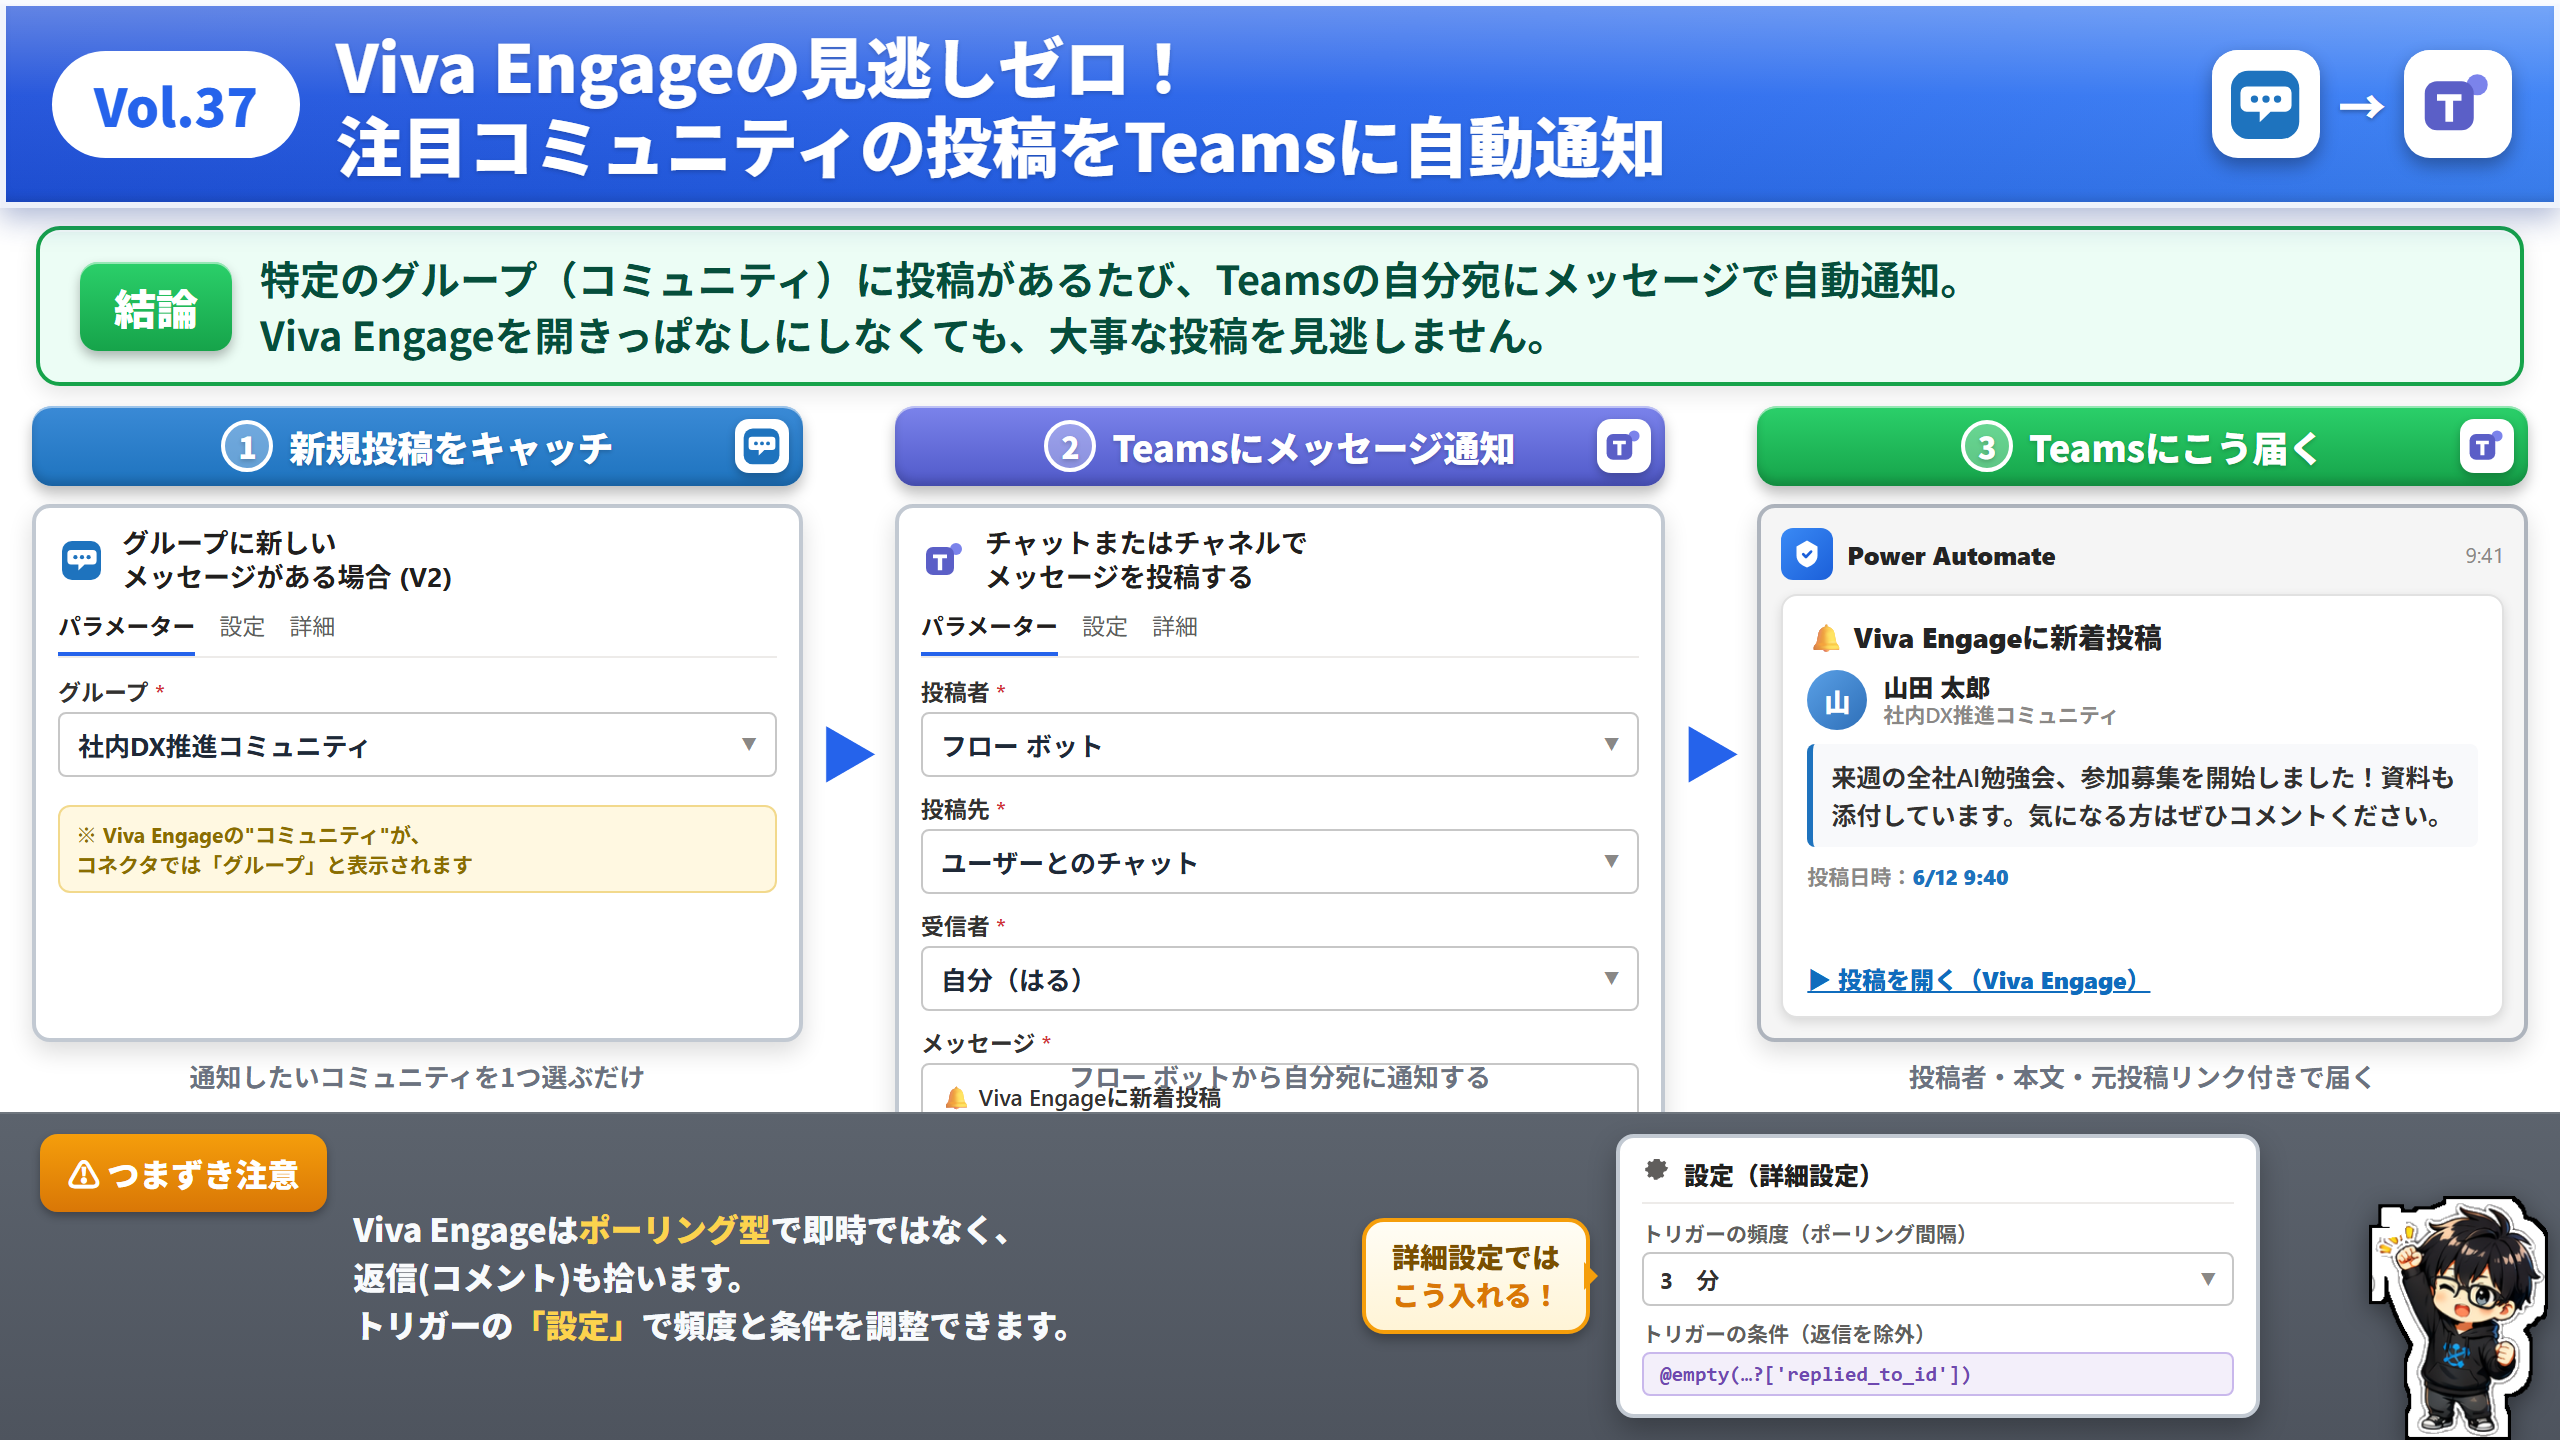
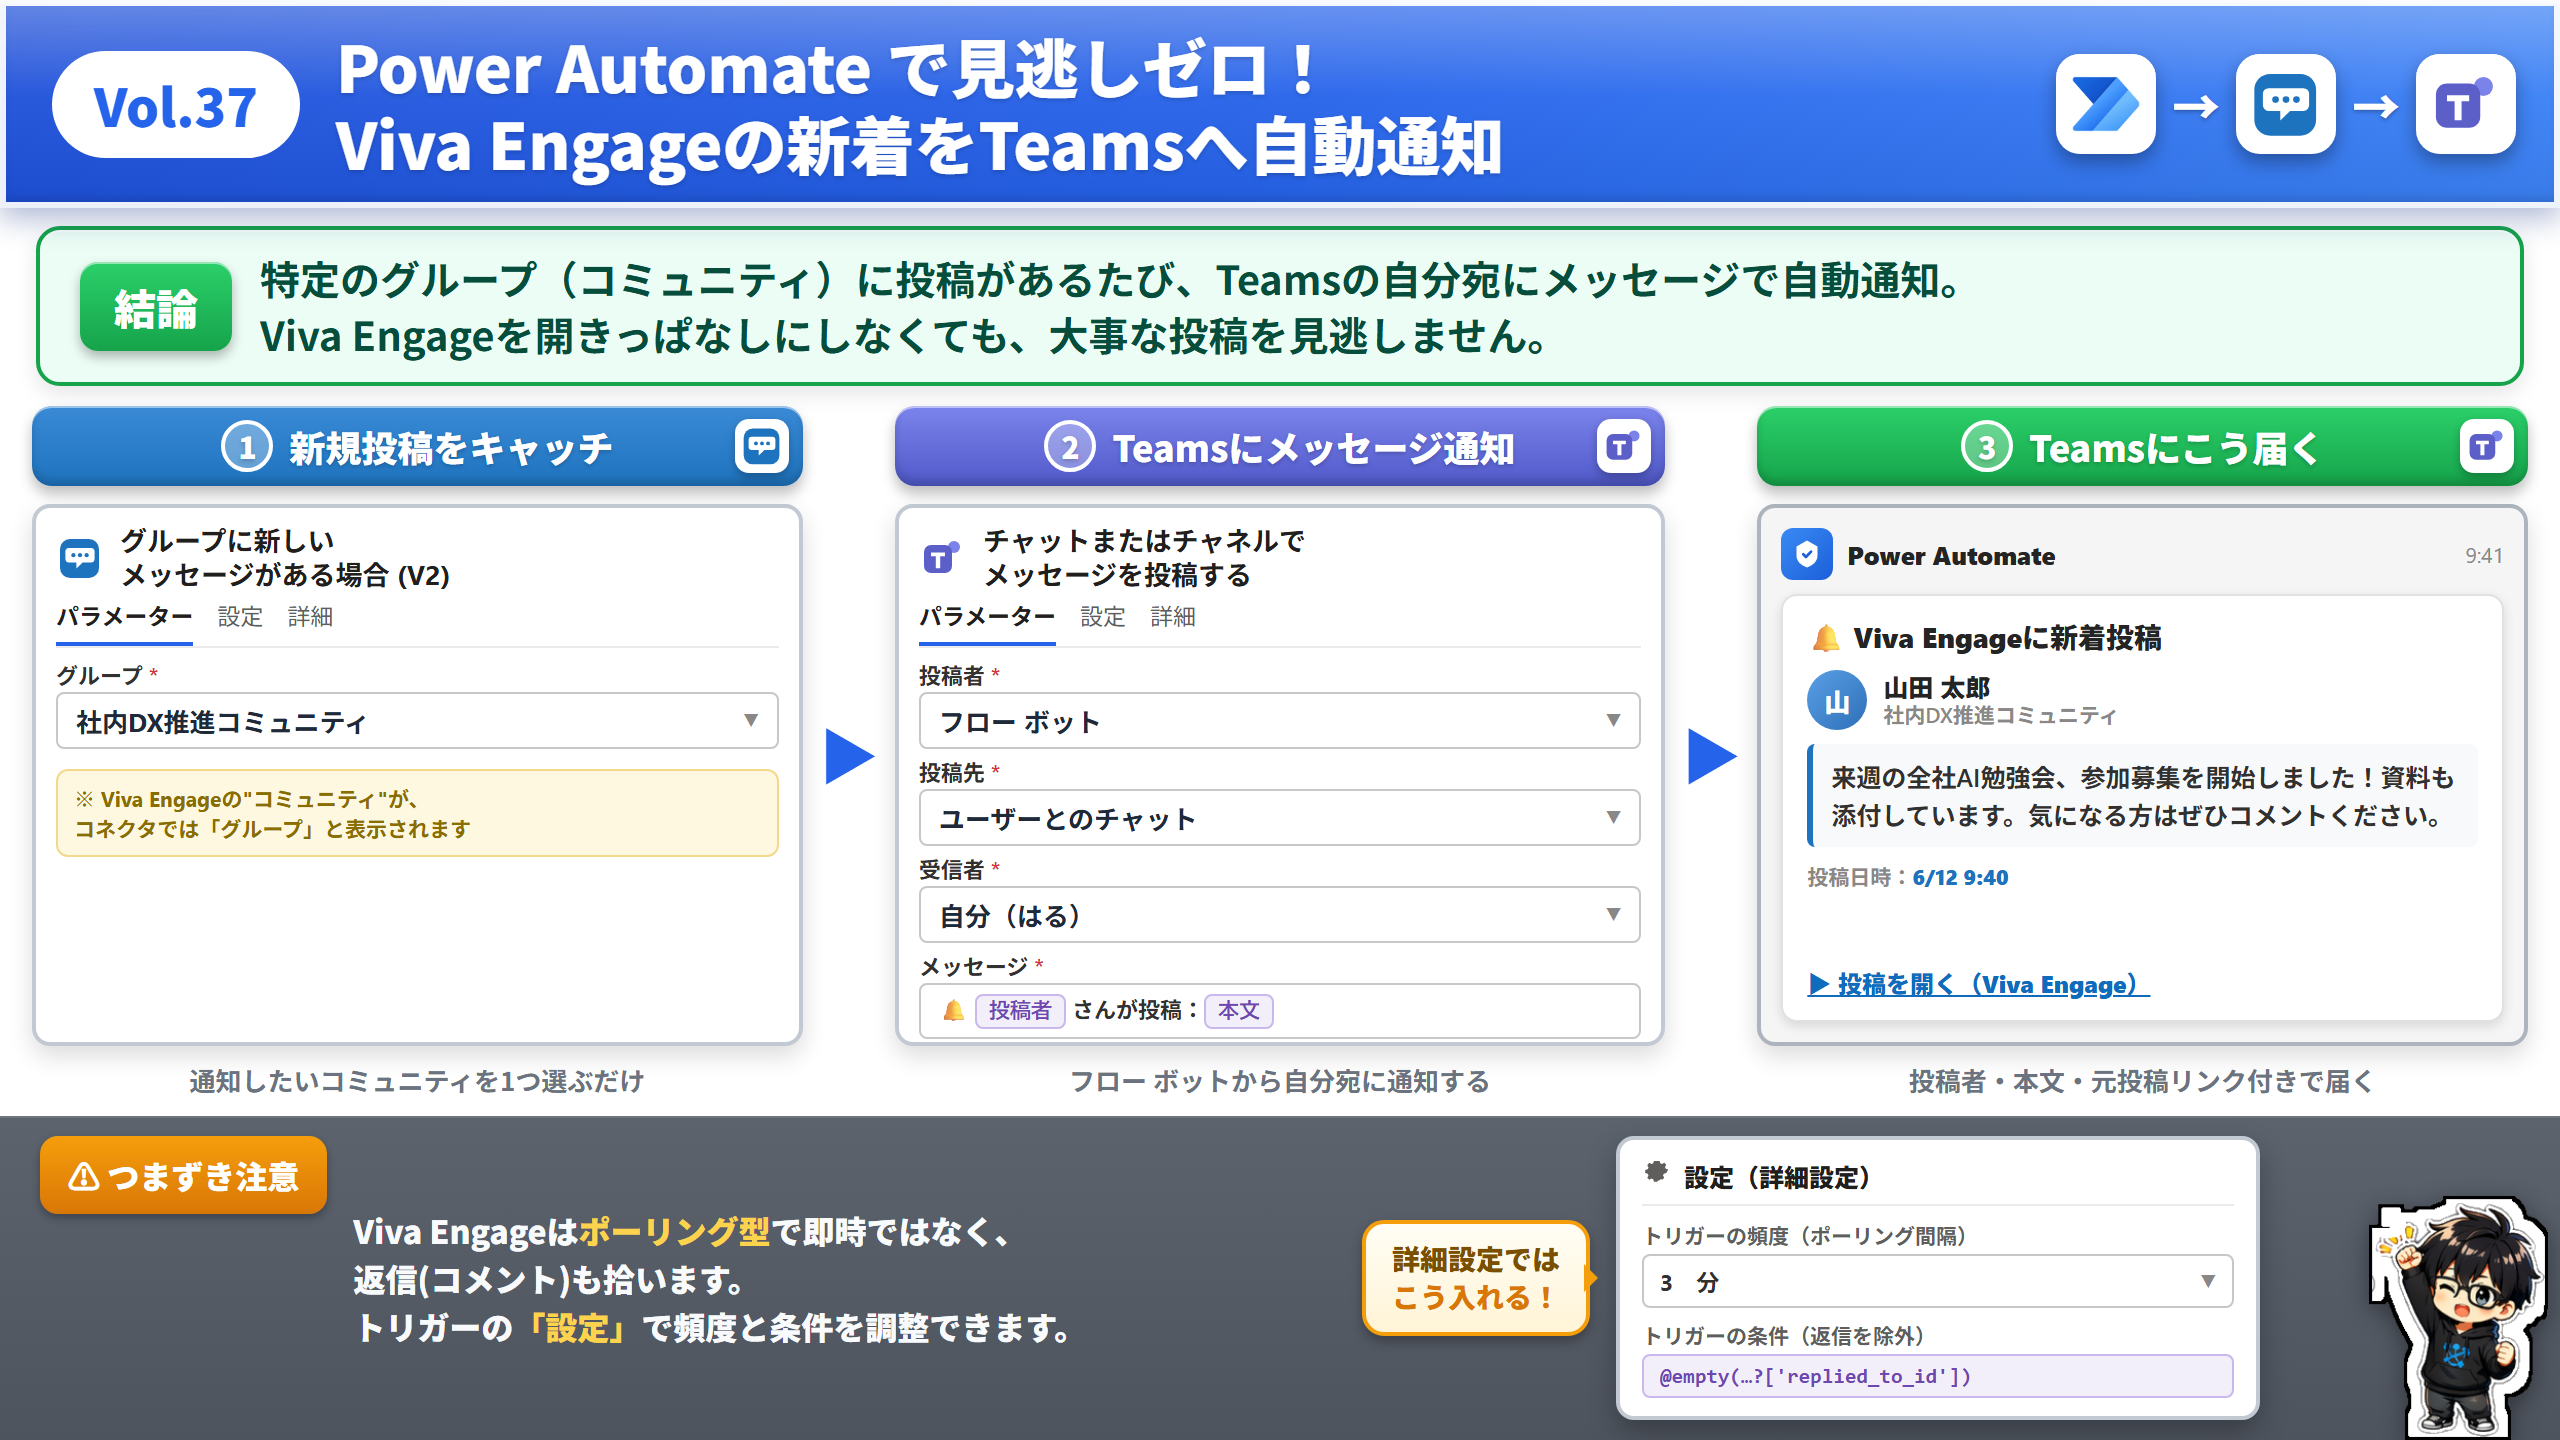
Vol.37 タイトルにPower Automate+PAロゴ追加 / ②メッセージ欄の文字重なりを解消(項目圧縮・1行化)

diff --git a/assets/x/html/vol-37/index.html b/assets/x/html/vol-37/index.html
@@ -19,10 +19,11 @@
 
   .titlebar{height:104px;background:linear-gradient(180deg,rgba(255,255,255,.32),rgba(255,255,255,.05) 46%,rgba(0,0,0,.06) 100%),linear-gradient(135deg,#1D4ED8 0%,#2563EB 52%,#3B82F6 100%);box-shadow:inset 0 0 0 3px rgba(255,255,255,.92),inset 0 2px 1px rgba(255,255,255,.45),inset 0 -4px 6px rgba(0,0,0,.16),0 5px 14px rgba(30,58,138,.36);display:flex;align-items:center;gap:18px;padding:0 26px;position:relative;flex:0 0 auto;z-index:5;}
   .vol-pill{background:#fff;color:var(--blue);font-weight:900;font-size:26px;border-radius:999px;padding:8px 21px;white-space:nowrap;flex:0 0 auto;}
-  .title-text{color:#fff;font-weight:900;font-size:33px;line-height:1.2;text-shadow:0 1px 2px rgba(0,0,0,.18);}
-  .titleflow{position:absolute;right:24px;top:50%;transform:translateY(-50%);display:flex;align-items:center;gap:9px;z-index:6;}
-  .titleflow .ti{width:54px;height:54px;border-radius:13px;background:#fff;display:flex;align-items:center;justify-content:center;box-shadow:0 4px 9px rgba(0,0,0,.32),inset 0 1px 0 rgba(255,255,255,.9);flex:0 0 auto;}
-  .titleflow .ti svg{width:42px;height:42px;display:block;}
+  .title-text{color:#fff;font-weight:900;font-size:32px;line-height:1.2;text-shadow:0 1px 2px rgba(0,0,0,.18);padding-right:250px;}
+  .titleflow{position:absolute;right:22px;top:50%;transform:translateY(-50%);display:flex;align-items:center;gap:8px;z-index:6;}
+  .titleflow .ti{width:50px;height:50px;border-radius:12px;background:#fff;display:flex;align-items:center;justify-content:center;box-shadow:0 4px 9px rgba(0,0,0,.32),inset 0 1px 0 rgba(255,255,255,.9);flex:0 0 auto;}
+  .titleflow .ti svg,.titleflow .ti img{width:38px;height:38px;display:block;object-fit:contain;}
+  .titleflow .ar{color:#fff;font-weight:900;font-size:22px;text-shadow:0 1px 2px rgba(0,0,0,.3);}
   .titleflow .ar{color:#fff;font-weight:900;font-size:24px;text-shadow:0 1px 2px rgba(0,0,0,.3);}
 
   .concl{margin:9px 18px 0;background:var(--green-bg);border:2px solid var(--green);border-radius:12px;display:flex;align-items:center;gap:14px;padding:10px 20px;flex:0 0 auto;box-shadow:0 4px 11px rgba(0,0,0,.10),inset 0 1px 0 rgba(255,255,255,.7);}
@@ -43,22 +44,22 @@
   .body{flex:1;display:flex;flex-direction:column;min-height:0;}
 
   /* アクション/トリガー 忠実UI */
-  .up{flex:1;background:#fff;border:2px solid #C2C9D2;border-radius:9px;box-shadow:0 5px 12px rgba(0,0,0,.14);font-family:'Segoe UI','Noto Sans JP',sans-serif;color:#323130;padding:9px 11px;display:flex;flex-direction:column;}
-  .up .uh{display:flex;align-items:center;gap:8px;margin-bottom:7px;}
+  .up{flex:1;background:#fff;border:2px solid #C2C9D2;border-radius:9px;box-shadow:0 5px 12px rgba(0,0,0,.14);font-family:'Segoe UI','Noto Sans JP',sans-serif;color:#323130;padding:8px 10px;display:flex;flex-direction:column;overflow:hidden;}
+  .up .uh{display:flex;align-items:center;gap:8px;margin-bottom:3px;}
   .up .uh .ic{width:24px;height:24px;border-radius:5px;display:flex;align-items:center;justify-content:center;overflow:hidden;flex:0 0 auto;}
   .up .uh .ic svg{width:24px;height:24px;display:block;}
   .up .uh .nm{font-size:13.5px;font-weight:700;color:#201F1E;line-height:1.25;}
-  .up .tabs{display:flex;gap:12px;border-bottom:1px solid #EDEBE9;margin-bottom:8px;}
+  .up .tabs{display:flex;gap:12px;border-bottom:1px solid #EDEBE9;margin-bottom:5px;}
   .up .tabs span{font-size:11.5px;color:#605E5C;padding-bottom:5px;}
   .up .tabs span.on{color:#201F1E;font-weight:700;border-bottom:2px solid #2563EB;}
-  .fld{margin-bottom:7px;}
+  .fld{margin-bottom:3px;}
   .fld:last-child{margin-bottom:0;}
-  .fld .l{font-size:11.5px;color:#323130;font-weight:600;margin-bottom:2px;}
+  .fld .l{font-size:11px;color:#323130;font-weight:600;margin-bottom:1px;}
   .fld .l .rq{color:#D13438;}
-  .fld .v{border:1px solid #C7C7C7;border-radius:4px;padding:6px 9px;font-size:13px;color:#1F2937;font-weight:700;background:#fff;display:flex;align-items:center;justify-content:space-between;}
+  .fld .v{border:1px solid #C7C7C7;border-radius:4px;padding:4px 9px;font-size:13px;color:#1F2937;font-weight:700;background:#fff;display:flex;align-items:center;justify-content:space-between;}
   .fld .v .cv{color:#8A8886;font-size:9px;}
   .fld .v.dyn{color:#6E48B0;background:#F3EFFA;border-color:#C9B8EC;font-family:Consolas,monospace;font-size:12px;}
-  .fld .v.msg{display:block;font-weight:600;font-size:11.5px;line-height:1.7;color:#323130;}
+  .fld .v.msg{display:block;font-weight:600;font-size:11px;line-height:1.5;color:#323130;}
   .ic-dyn{display:inline-block;background:#F3EFFA;color:#6E48B0;border:1px solid #C9B8EC;border-radius:4px;padding:0 6px;font-family:Consolas,monospace;font-size:10.5px;font-weight:700;}
   .up .note{margin-top:7px;font-size:10.5px;font-weight:700;color:#8A6D00;background:#FFF8E1;border:1px solid #F2D98C;border-radius:6px;padding:6px 8px;line-height:1.45;}
 
@@ -85,7 +86,7 @@
   .acard .msglink{margin-top:auto;color:#0F6CBD;font-size:12px;font-weight:800;text-decoration:underline;}
 
   /* つまずき帯 */
-  .pitfall{flex:0 0 auto;margin:9px 0 0;background:linear-gradient(180deg,#5C636D,#4E545E);color:#fff;min-height:152px;display:flex;align-items:center;gap:13px;padding:11px 150px 11px 20px;box-shadow:inset 0 1px 0 rgba(255,255,255,.12);}
+  .pitfall{flex:0 0 auto;margin:9px 0 0;background:linear-gradient(180deg,#5C636D,#4E545E);color:#fff;min-height:138px;display:flex;align-items:center;gap:13px;padding:10px 150px 10px 20px;box-shadow:inset 0 1px 0 rgba(255,255,255,.12);}
   .pitfall .ptag{flex:0 0 auto;align-self:flex-start;background:linear-gradient(180deg,#F59E0B,#D97706);color:#fff;font-weight:900;font-size:16px;border-radius:9px;padding:8px 14px;white-space:nowrap;box-shadow:0 2px 4px rgba(0,0,0,.3);}
   .pitfall .ptxt{flex:1;font-weight:800;font-size:16px;color:#F8FAFC;line-height:1.5;}
   .pitfall .ptxt b{color:#FCD34D;}
@@ -110,8 +111,10 @@
 
   <div class="titlebar">
     <div class="vol-pill">Vol.37</div>
-    <div class="title-text">Viva Engageの見逃しゼロ！<br>注目コミュニティの投稿をTeamsに自動通知</div>
+    <div class="title-text">Power Automate で見逃しゼロ！<br>Viva Engageの新着をTeamsへ自動通知</div>
     <div class="titleflow">
+      <span class="ti"><img src="../../pptx/_assets/icons/pa_logo.png" alt="Power Automate"></span>
+      <span class="ar">→</span>
       <span class="ti"><svg viewBox="0 0 24 24" xmlns="http://www.w3.org/2000/svg"><rect x="2" y="2.5" width="19.5" height="19.5" rx="5" fill="#1E73BE"/><path d="M6.5 7h11a1.8 1.8 0 0 1 1.8 1.8v3.6a1.8 1.8 0 0 1-1.8 1.8h-4.2l-3.1 3v-3H6.5a1.8 1.8 0 0 1-1.8-1.8V8.8A1.8 1.8 0 0 1 6.5 7z" fill="#fff"/><circle cx="8.7" cy="10.6" r="1.05" fill="#1E73BE"/><circle cx="12" cy="10.6" r="1.05" fill="#1E73BE"/><circle cx="15.3" cy="10.6" r="1.05" fill="#1E73BE"/></svg></span>
       <span class="ar">→</span>
       <span class="ti"><svg viewBox="0 0 24 24" xmlns="http://www.w3.org/2000/svg"><circle cx="17.5" cy="6.5" r="3" fill="#7B83EB"/><rect x="2.5" y="5.5" width="14" height="14" rx="3.5" fill="#5B5FC7"/><path d="M6 9.2h7v1.9h-2.4v6h-2.2v-6H6z" fill="#fff"/></svg></span>
@@ -151,7 +154,7 @@
           <div class="fld"><div class="l">投稿者 <span class="rq">*</span></div><div class="v">フロー ボット <span class="cv">▼</span></div></div>
           <div class="fld"><div class="l">投稿先 <span class="rq">*</span></div><div class="v">ユーザーとのチャット <span class="cv">▼</span></div></div>
           <div class="fld"><div class="l">受信者 <span class="rq">*</span></div><div class="v">自分（はる） <span class="cv">▼</span></div></div>
-          <div class="fld"><div class="l">メッセージ <span class="rq">*</span></div><div class="v msg">🔔 Viva Engageに新着投稿<br><span class="ic-dyn">投稿者</span> さんが投稿しました<br><span class="ic-dyn">本文</span> <span class="ic-dyn">投稿リンク</span></div></div>
+          <div class="fld"><div class="l">メッセージ <span class="rq">*</span></div><div class="v msg">🔔 <span class="ic-dyn">投稿者</span> さんが投稿：<span class="ic-dyn">本文</span></div></div>
         </div>
       </div>
       <div class="pcap">フロー ボットから自分宛に通知する</div>
